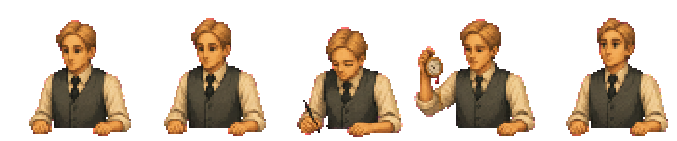
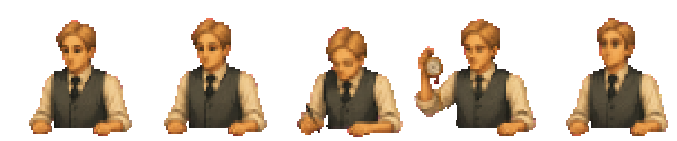
The clerk declares his depth and is snapped to its level; his edge pixels cleaned
Claude-Session: https://claude.ai/code/session_01FXbCus2Hm36NL2YuHFGB8T

diff --git a/tools/art/key-fringe.py b/tools/art/key-fringe.py
@@ -15,7 +15,9 @@ from PIL import Image
 from scipy import ndimage
 
 ROOT = os.path.dirname(os.path.dirname(os.path.dirname(os.path.abspath(__file__))))
-SHEETS = ['art/actors/room-43-bell-ringer.png', 'art/actors/message-boy.png', 'art/actors/ambient-map-seller-master.png']
+# The map seller's sheet was on this list (errata 345) and came off when he was redrawn (errata 349): his red neckerchief
+# reaches his outline now, and the pink test would take it for fringe.
+SHEETS = ['art/actors/room-43-bell-ringer.png', 'art/actors/message-boy.png', 'art/actors/room-10-clerk.png']
 DRY = '--dry' in sys.argv
 
 

diff --git a/docs/00-errata.md b/docs/00-errata.md
@@ -8425,7 +8425,7 @@ From the Act I review's art director: four figures were in a different hand from
 
 Two tests failed on the hand-back and were decided here, neither by loosening:
 - **The horses.** The test held that errata 198's day-lit horses were too bright before the street's grade. Those horses are gone; redrawn for the night they measure 1.09 of Thad ungraded, inside the limit. The street still grades them, and the test now holds that the drawing itself is the night's (`tests/figure-light.test.mjs`; `proofs/check-friction.json`).
-- **The clerk.** He declared no depth, so the one-level check read the floor in front of the desk and asked for blocks twice his size. He declares `depthY` 387, his own row, as the storekeeper does; and his breath, a one-pixel lift, is a lift of one of his blocks.
+- **The clerk.** He declared no depth, so the one-level check read the floor in front of the desk and asked for blocks twice his size. He declares `depthY` 441, as the storekeeper declares his: the row at which the room's curve makes the man his waist-up belongs to (about 258; `tests/scale.test.ts` holds a waist-up to 0.45 of the man where it stands). `tools/art/one-level.py` then snapped him to that man's level, blocks of 2.24 where the redraw was cut at 1.92 and the old sheet at 4. The redraw's pink edge pixels went the way of errata 345's (`tools/art/key-fringe.py`).
 
 Left: the map seller is trimmed at his cell's edge in three poses (widening the cell is a change to his record); Thad still has no clear place at the Nugget's bar, because the man in the blue shirt sits in it.
 
